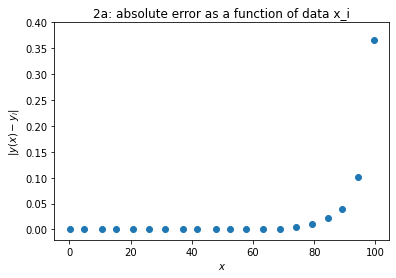
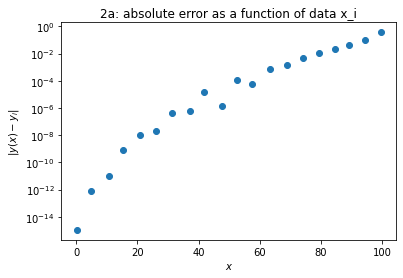
Add files via upload

diff --git a/problem2.tex b/problem2.tex
@@ -4,11 +4,12 @@ In this problem we analyse the Vandermonde matrix and use various techniques to 
 
 \lstinputlisting{NURhandin1_2.py}
 
+\newpage
 \subsection{Problem 2a}
 
 First we take a look at problem 2a. In this problem, the goal is to write a code that does an LU decomposition of the Vandermonde matrix and use the resulting LU matrix to obtain the solutions $c_i$ for data points $x_i$, where i = 0,1,...,19. First of all, we create the matrix V. We do this by taking every row to be (1, $x_i$, $x_{i}^2$, ...., $x_{i}^{19}$), again for our different 20 data values $x_i$, filling j = 1,2,...,19 rows in total. In order to first obtain the LU matrix, we apply the $\textbf{improved Crout's algorithm}$ from lecture 3 slide 15 as shown in the code. As can be seen in the code, we first take our LU matrix as the input matrix V (as instructed on slide 13), and gradually swap and overwrite different elements of the matrix. If an input matrix is not square, we return an error message that no LU matrix can be found for a singular matrix. All used for loops can be translated to summing for different values i within the range of the loop. The if-statements determine the conditions for which we should apply operations. After we finish all loops, we return a matrix LU of equivalent shape to V that contains our $\alpha_{ij}$ and $\beta_{ij}$ values, which we will require to apply forward- and backward substitution.\\
 
-Next, using the LU matrix and the given b=$y_i$ data values, we apply a $\textbf{forward subtitution algorithm}$ inspired by slide 11 of lecture 3. The diving by $\alpha_{ii}$ factors are omitted because we have set these values to be equal to 1 implicitly. From this rather straightforward algorithm, we (confusingly) obtain the y values we require to apply $\textbf{backward subtitution}$. This algorithm is a bit more complicated. We go through this loop in reverse order, applying numerous operations to construct our solution vector x. These operations include dividing by $\beta_{ii}$ and multiplying by $\beta_{ij}$ and $y_i$ values respectively for j $>$ i, opposite from the conditions from the forward subtitution, j $<$ i. Finally, we combine these three seperate algorithms into a final function in which we can input the matrix we want to solve A and it's solution b. In our case, we will use V and y respectively for this. This function then returns a vector of x-values. These are the c-values we wished to obtain, given by:
+Next, using the LU matrix and the given $\vec{b}$=$y_i$ data values, we apply a $\textbf{forward subtitution algorithm}$ inspired by slide 11 of lecture 3. The diving by $\alpha_{ii}$ factors are omitted because we have set these values to be equal to 1 implicitly. From this rather straightforward algorithm, we (confusingly) obtain the y values we require to apply $\textbf{backward subtitution}$. This algorithm is a bit more complicated. We go through this loop in reverse order, applying numerous operations to construct our solution vector x. These operations include dividing by $\beta_{ii}$ and multiplying by $\beta_{ij}$ and $y_i$ values respectively for j $>$ i, opposite from the conditions from the forward subtitution, j $<$ i. Finally, we combine these three seperate algorithms into a final function in which we can input the matrix we want to solve A and it's solution $\vec{b}$. In our case, we will use V and $\vec{y}$ respectively for this. This function then returns a vector of x-values. These are the c-values we wished to obtain, given by:
 
 \lstinputlisting{problem2a.txt}
 
@@ -21,12 +22,12 @@ Using these c values, we can calculate (interpolate) the y values by applying eq
   \label{fig:fig1}
 \end{figure}
 
-From this figure we can conclude that we get a pretty good description of the data, except for x values below 5 and especially above 90. At x values close to the maximum, the polymial seems to vary wildy. Despite this, it still does go through the data points somewhat well as seen in the plot. The accuracy does decrease at these higher x values though, as can be seen in the second plot below, where we calculate the absolute value of the error per data point:
+From this figure we can conclude that we get a pretty good description of the data, except for x values below 5 and especially above 90. At x values close to the maximum, the polymial seems to vary wildy. Despite this, it still does go through the data points somewhat well as seen in the plot. The accuracy does decrease at these higher x values though, as can be seen in the second plot below, where we calculate the absolute value of the error per data point. I use a logarithmic scale to see the error values more clearly:
 
 \begin{figure}[h!]
   \centering
   \includegraphics[width=0.6\linewidth]{problem2a2.png}
-  \caption{The absolute difference between the polynomial y(x) and the data points $y_i$ to visualise how far off the polynomial is from the actual data. This y-scale seemed most appropiate as it still includes the point with the highest error value. Smaller y limit values barely show any error in the lower x values regardless.}
+  \caption{The absolute difference between the polynomial y(x) and the data points $y_i$ to visualise how far off the polynomial is from the actual data. This y-scale seemed most appropiate as you can spot differences between individual points. Smaller x values seem to have exponentially smaller error values.}
   \label{fig:fig2}
 \end{figure}
 
@@ -42,18 +43,45 @@ Moving on to Neville's algorithm, from $j_{low}$ we find the total range of M ta
   \centering
   \includegraphics[width=0.6\linewidth]{problem2b1.png}
   \caption{The polynomial y(x) obtained from 1000 x values from 0 to 20 interpolated using Neville's algorithm. This Lagrange polynomial is plotted together with the given data points to test whether it intersects them.}
-  \label{fig:fig2}
+  \label{fig:fig3}
 \end{figure}
 
-Visually, the polynomial seems very similar to the one found in the first problem. We can verify this by plotting together the absolute error per data point for both the polynomial found using LU decomposition and Neville's algorithm: 
+Visually, the polynomial seems very similar to the one found in the first problem. We can verify this by plotting together the absolute error per data point for both the polynomial found using LU decomposition and Neville's algorithm, again using a logaritmic scale: 
+
+\begin{figure}[h!]
+  \centering
+  \includegraphics[width=0.6\linewidth]{problem2b2.png}
+  \caption{The absolute difference between the polynomial y(x) and the data points $y_i$ to visualise how far off the polynomial is from the actual data. This y-scale seemed most appropiate as you can spot differences between individual points. Smaller x values seem to have exponentially smaller error values.}
+  \label{fig:fig4}
+\end{figure}
 
 \subsection{Problem 2c}
 
 In this problem we want to try and improve our result by performing multiple iterations of LU decomposition. There are namely unknown errors $\delta x$ present in our found solution, or in this case, errors $\delta c$ of the solutions $c_i$. Before I tackle the problem, we will be needing matrix multiplication. For this I write a very simple function $\textbf{matrix multiplication}$ that takes an input square matrix A and vector $\vec{x}$ and outputs their matrix product with dimensions equal to $\vec{x}$. Using lecture 3 slide 18 as a guideline, we explain it as follows, following along in the code in the function $\textbf{LU iterations}$:\\
-
 In problem 2a, we have found a solution of the form V$\vec{c}$ = $\vec{y}$. There is some unknown error on this however: $\vec{c'}$ = $\vec{c}$ + $\vec{\delta c}$. We can then rewrite to V$\vec{c'}$ = V($\vec{c}$ + $\vec{\delta c}$) = $\vec{y}$ + $\vec{\delta y}$, where we save the right-hand side of this equation as $\delta b$. To obtain the aforementioned error value, we can then do another LU decomposition with this $\delta b$ to obtain a solution for the error values. We then obtain a new solution $\vec{c''}$ = $\vec{c'}$ - $\vec{\delta c}$ found by, as the function shows, subtracting the found error from our initial, 'lower order' solution. We append the function to iterate this 10 times, leaving us with a 10th order solution for $c_i$, given by $\vec{c}^{(10)}$. As we have done before, we then fill both an array with 1000 and 20 interpolated values to compare with the data points and 1 LU iterations respectively. For the data comparison, the plot is as follows:\\
+
+\begin{figure}[h!]
+  \centering
+  \includegraphics[width=0.5\linewidth]{problem2c1.png}
+  \caption{The polynomial y(x) obtained from 1000 x values from 0 to 20 interpolated using both 1 and 10 LU iterations. This Lagrange polynomial is plotted together with the given data points to test whether it intersects them. We see no clear difference between 1 and 10 LU iterations; the polynomials overlap.}
+  \label{fig:fig5}
+\end{figure}
 
 Next, we plot the comparison in absolute error between the Lagrange polynomial and the data for both 1 LU and 10 LU iterations. The result is:\\
 
+\begin{figure}[h!]
+  \centering
+  \includegraphics[width=0.5\linewidth]{problem2c2.png}
+  \caption{The absolute error compared for 1 and 10 LU iterations. We see that while small, the error actually seems to increase for more LU iterations.}
+  \label{fig:fig6}
+\end{figure}
+
 \subsection{Problem 2d}
 
+In this final problem we time the execution times of problems a), b), and c). We do this by importing the $\textit{timeit}$ module and defining a variable per sub-question that starts a timer. We then loop through the entire code of the sub-question $k$ number of times. To then find the average execution time, we define another variable in which we print out the difference between the current time minus the starting time, divided by the number of executions $k$. Doing this for an adequate number of execution times (a: k=300, b: k=50, c: k=200) to give a consistent result, we find that the code from a), so doing LU decomposition, is by far the fastest method to find the Lagrange polynomial. Followed up by this is the code from problem c) in which we perform 10 LU iterations, which appears to be some margain slower than just 1 LU decomposition, which you'd expect as you are iterating the code from a) multiple times essentially. Finally, we see that the code in b) is by far the slowest method to find the Lagrange polynomial. Especially when compared to just LU iteration, it takes significantly longer to execute. Relatively, we find that $\frac{t_b}{t_a} \approx 18$, $\frac{t_b}{t_c} \approx 3$ and $\frac{t_c}{t_a} \approx 6$.\\
+
+Therefore, the LU decomposition method to find y(x) from problem 2a) appears to be the most efficient. It takes the least amount of time by a large margain and finds a relatively accurate description of the data. Subsequently, we conclude that Neville's algorithm from problem 2b) is the least efficient method as it takes significantly longer to find. The method from problem 2c), multiple LU iterations, is still more efficient than Neville's algorithm if you keep under a certain number of iterations. Testing around, Neville's algorithm seems to be faster if you exceed about 35 LU iterations.\\
+
+In terms of accuracy we can tell by figure 4, the plot of absolute error of Neville compared to the LU decomposition, that Neville's algorithm seems to give more accurate results per data point. This confirms the logical conclusion one would tend toward when seeing the execution times: it seems that using Neville's method is less efficient in terms of operations but provides the most accurate result, while using LU decomposition is the opposite in that it's less accurate but much more efficient. So to conclude I expect Neville's algorithm to be the most accurate method to construct the Lagrange polynomial, but if you value efficiency more it is likely best to use LU decomposition instead, as the differences between the two seem very small. The output of the run times are:\\
+
+\lstinputlisting{problem2d.txt}
